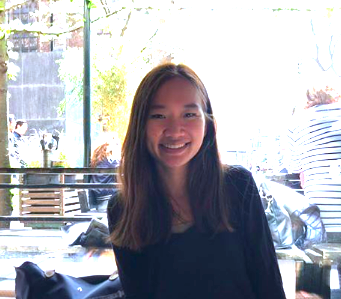
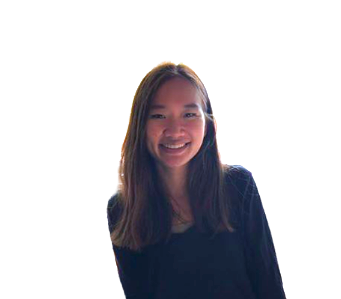
timeline

diff --git a/index.html b/index.html
@@ -24,7 +24,7 @@
         <div class="row gtr-150">
           <div class="col-4 col-12-medium">
             <div class="profile-pic-container"
-            ><img src="images/profile.png" width="400" alt="marisa-photo"
+            ><img class="image fit" src="images/profile.png" width="400" alt="marisa-photo"
           /></div>
           </div>
           <div class="col-8 col-12-medium">
@@ -98,9 +98,105 @@
             </ul>
           </div>
           <div class="col-6 col-12-medium imp-medium">
-            <span class="image fit"
-              ><img class="circle" src="images/profile_pic.png" alt="marisa-photo"
-            /></span>
+            <!-- <span class="image fit profile-pic-container-circle"
+              ><img src="images/profile_pic.png" alt="marisa-photo"
+            /></span> -->
+            <header>
+              <div class="badge">
+                <div>Work</Hello></div>
+              </div>
+              <h3>My Experience</h3>
+            </header>
+            <div class="timeline">
+              <div class="timeline-item">
+                <div class="timeline-info"><h4>SEP 2020 - NOV 2022</h4></div>
+                <div class="timeline-marker">
+                  <div class="timeline-dot background-purple"></div>
+                </div>
+                <div class="timeline-content">
+                  <h3>Senior Frontend Engineer</h3>
+                  <p>Stacklet, Remote</p>
+                </div>
+              </div>
+              <div class="timeline-item">
+                <div class="timeline-info"><h4>DEC 2019 - NOV 2020</h4></div>
+                <div class="timeline-marker">
+                  <div class="timeline-dot background-blue"></div>
+                </div>
+                <div class="timeline-content">
+                  <h3>Software Engineer</h3>
+                  <p>Fountain, San Francisco</p>
+                </div>
+              </div>
+              <div class="timeline-item">
+                <div class="timeline-info"><h4>MAY 2019 - DEC 2022</h4></div>
+                <div class="timeline-marker">
+                  <div class="timeline-dot background-pink"></div>
+                </div>
+                <div class="timeline-content">
+                  <h3>Frontend Engineer - Contractor</h3>
+                  <p>Sqwad, Remote</p>
+                </div>
+              </div>
+              <div class="timeline-item">
+                <div class="timeline-info"><h4>JUL 2018 - MAY 2019</h4></div>
+                <div class="timeline-marker">
+                  <div class="timeline-dot background-green"></div>
+                </div>
+                <div class="timeline-content">
+                  <h3>Bilingual Engineer for Search Language Specialist team at Google</h3>
+                  <p>Qualitest, Mountain View</p>
+                </div>
+              </div>
+              <div class="timeline-item">
+                <div class="timeline-info"><h4>JAN 2018 - JUL 2018</h4></div>
+                <div class="timeline-marker">
+                  <div class="timeline-dot background-orange"></div>
+                </div>
+                <div class="timeline-content">
+                  <h3>QA Tester at Apple</h3>
+                  <p>Moravia, Cupertino</p>
+                </div>
+              </div>
+              <div class="timeline-item">
+                <div class="timeline-info"><h4>MAY 2011 - OCT 2013</h4></div>
+                <div class="timeline-marker">
+                  <div class="timeline-dot background-yellow"></div>
+                </div>
+                <div class="timeline-content">
+                  <h3>Mechanical Engineer</h3>
+                  <p>Konan Sekkei, Japan</p>
+                </div>
+              </div>
+            </div>
+            <header>
+              <div class="badge">
+                <div>School</Hello></div>
+              </div>
+              <h3>My Education</h3>
+            </header>
+            <div class="timeline">
+              <div class="timeline-item">
+                <div class="timeline-info school"><h4>2015 - 2017</h4></div>
+                <div class="timeline-marker">
+                  <div class="timeline-dot background-purple"></div>
+                </div>
+                <div class="timeline-content">
+                  <h3>University of Southern California, Los Angeles</h3>
+                  <p>Master of Science in Engineering Management (GPA: 3.91)</p>
+                </div>
+              </div>
+              <div class="timeline-item">
+                <div class="timeline-info school"><h4>2007 - 2011</h4></div>
+                <div class="timeline-marker">
+                  <div class="timeline-dot background-blue"></div>
+                </div>
+                <div class="timeline-content">
+                  <h3>Chulalongkorn University, Bangkok Thailand</h3>
+                  <p>Bachelor of Engineering in Automotive Design and Manufacturing Engineering </p>
+                </div>
+              </div>
+            </div>
           </div>
         </div>
       </div>
@@ -322,7 +418,7 @@
             </ul>
           </div>
           <div class="col-6 col-12-medium">
-            <span class="image fit frame"
+            <span class="image frame"
               ><img src="images/flask.png" alt="Flask_cafe-image" height="450"
             /></span>
             <h3>Flask Cafe</h3>
@@ -865,7 +961,7 @@ print 'It took ' + i + ' iterations to sort the deck.';</code></pre>
       </ul>
       <ul class="copyright">
         <li>&copy; Marisa H.</li>
-        <li>Design: <a href="http://html5up.net">HTML5 UP</a></li>
+        <!-- <li>Design: <a href="http://html5up.net">HTML5 UP</a></li> -->
       </ul>
     </section>
 

diff --git a/assets/css/main.css b/assets/css/main.css
@@ -2497,7 +2497,8 @@ input[type="radio"] + label:before {
   width: 100%;
 }
 
-.image.fit.frame {
+.frame {
+  width: 100%;
   padding: 20px;
   border: 2px solid black;
 }
@@ -3216,6 +3217,11 @@ button:disabled,
   border-radius: 300px 300px 10px 10px;
 }
 
+.profile-pic-container-circle {
+  background-color: #fae0d8;
+  border-radius: 50%;
+}
+
 body.is-preload #header .inner {
   -moz-transform: scale(1.05);
   -webkit-transform: scale(1.05);
@@ -3249,6 +3255,79 @@ body.is-preload #header:after {
   font-weight: 800;
   display: inline-block;
   margin: 0 0 45px 0;
+}
+
+/* Timeline */
+.timeline-item {
+  grid-column-gap: 25px;
+  display: flex;
+}
+
+.timeline-info {
+  min-width: 160px;
+  flex: none;
+}
+
+.timeline-info.school {
+  min-width: 120px;
+}
+
+.timeline-info h4 {
+  font-size: 16px;
+}
+
+.timeline-marker {
+  border-left: 2px solid #1d1d1d;
+  position: relative;
+}
+
+.timeline-content {
+  margin-top: -6px;
+}
+
+.timeline-content h3 {
+  font-size: 20px;
+}
+
+.timeline-content p {
+  font-size: 16px;
+}
+
+.timeline-dot {
+  z-index: 2;
+  width: 20px;
+  height: 20px;
+  border: 2px solid #1d1d1d;
+  border-radius: 50%;
+  position: absolute;
+  top: 0%;
+  bottom: auto;
+  left: -11px;
+  right: 0%;
+}
+
+.background-blue {
+  background-color: #e3f2ff;
+}
+
+.background-pink {
+  background-color: #fde4f9;
+}
+
+.background-green {
+  background-color: #f3ffe3;
+}
+
+.background-purple {
+  background-color: #e3e3ff;
+}
+
+.background-yellow {
+  background-color: #fdf8e1;
+}
+
+.background-orange {
+  background-color: #fdeac3;
 }
 
 /* Footer */
